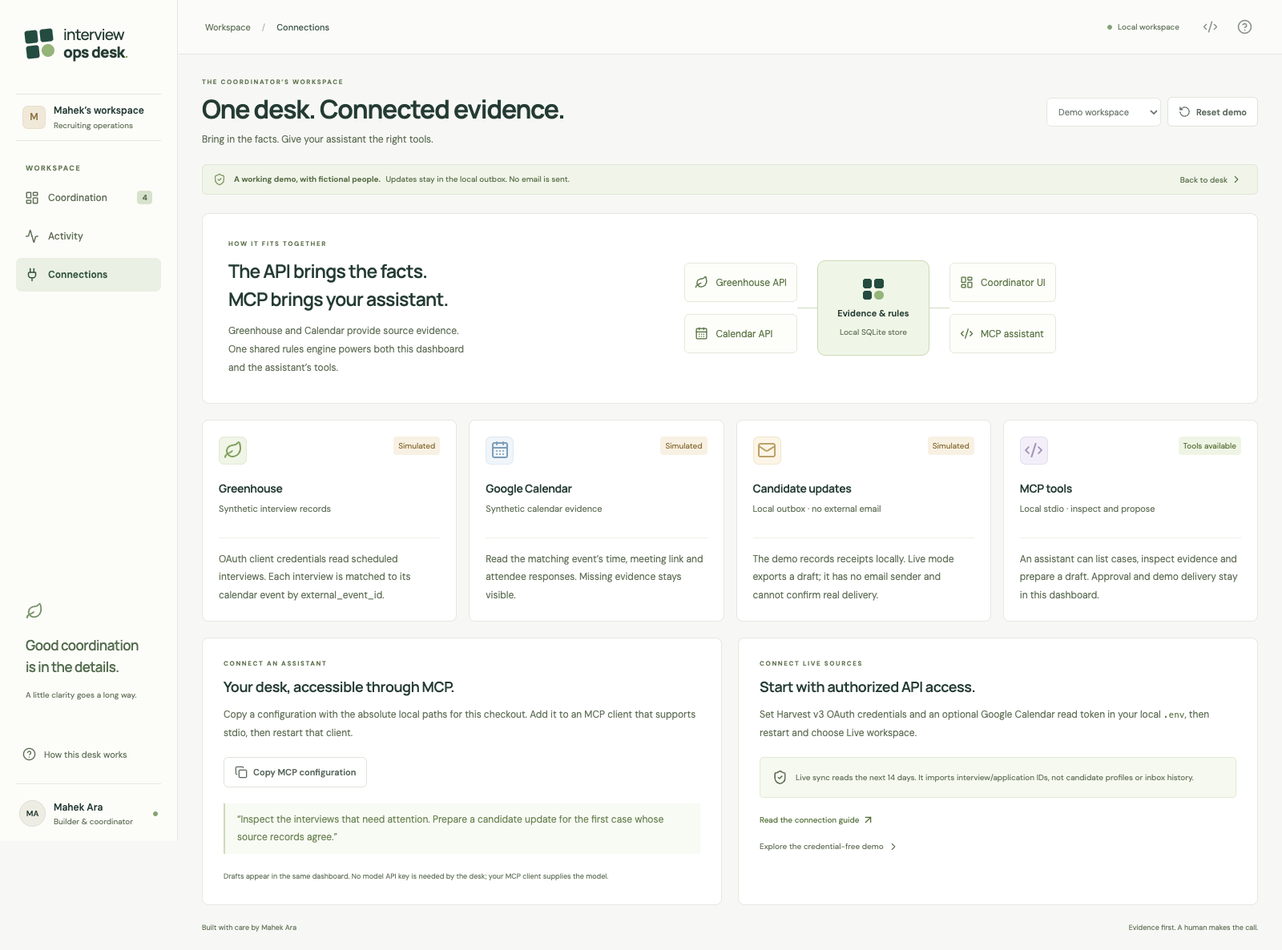
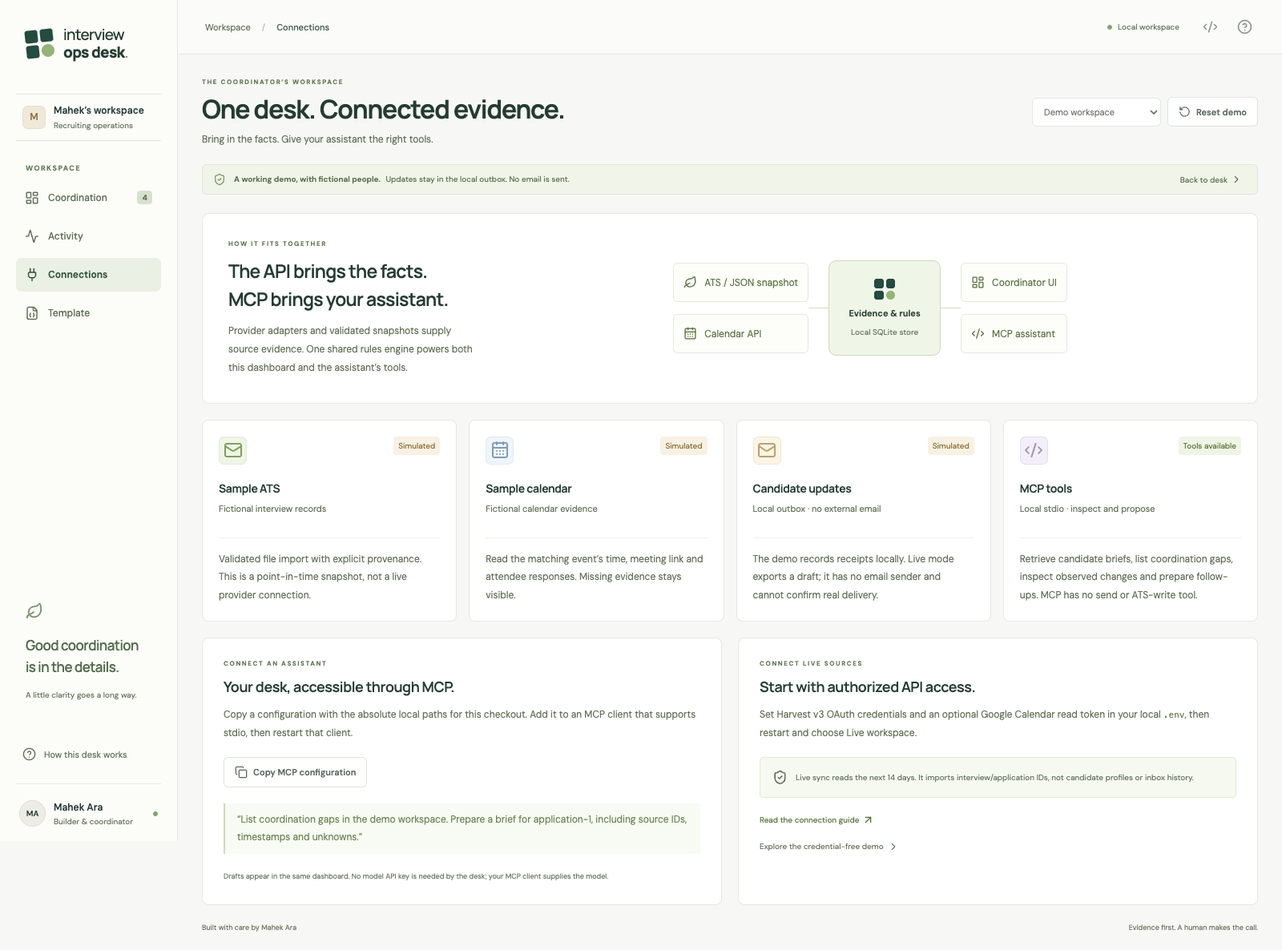
docs: add template setup and interview demonstration guide

diff --git a/scripts/render-walkthrough.py b/scripts/render-walkthrough.py
@@ -11,7 +11,7 @@ root = Path(__file__).resolve().parents[1]
 source = root / "test-results"
 output = root / "docs/images"
 output.mkdir(parents=True, exist_ok=True)
-names = ["desk-overview", "desk-draft", "desk-recovery", "desk-receipt", "desk-connections", "desk-mobile"]
+names = ["desk-overview", "desk-draft", "desk-recovery", "desk-receipt", "desk-connections", "desk-mobile", "template-preview", "template-brief", "template-mobile"]
 for name in names:
     copyfile(source / f"{name}.png", output / f"{name}.png")
 
@@ -36,4 +36,4 @@ for im, (_, caption, _) in zip(scaled, scenes):
     frame.paste(im, (0, 46))
     frames.append(frame.quantize(colors=128, method=Image.Quantize.MEDIANCUT))
 frames[0].save(output / "workflow.gif", save_all=True, append_images=frames[1:], duration=[scene[2] for scene in scenes], loop=0, optimize=True, disposal=2)
-print(f"Saved six UI captures and workflow.gif ({(output / 'workflow.gif').stat().st_size // 1024} KiB)")
+print(f"Saved nine UI captures and workflow.gif ({(output / 'workflow.gif').stat().st_size // 1024} KiB)")

diff --git a/docs/TEMPLATE.md b/docs/TEMPLATE.md
@@ -1,0 +1,143 @@
+# A recruiting workflow you can adapt
+
+Interview Ops Desk is a single-operator template for a coordinator briefing: collect the evidence for an application, identify scheduling or communication gaps, and prepare a follow-up for review. It includes a working MCP server, a dashboard, a versioned interchange contract and two API adapters. It does not claim access to every ATS or a connection to an employer's account.
+
+## Start from the template
+
+Choose **Use this template** on GitHub, create your own repository, then:
+
+```sh
+npm ci
+npm run build
+npm start
+```
+
+Use Node 24+. Open `http://127.0.0.1:4310/?view=template`. The default demo needs no accounts, credentials or model key. The package is private and has not been published to npm.
+
+In Template, choose **Preview sample snapshot → Import reviewed snapshot → Open imported workspace**. Open Maya's application brief. The provider, record ID, observed time and missing information are visible alongside the source comparison.
+
+![Actual template preview with fictional data](images/template-preview.png)
+
+## The reusable boundary
+
+```mermaid
+flowchart LR
+    JSON[Reviewed JSON snapshot] --> CONTRACT[Schema 1.0 + semantic validation]
+    HTTP[Custom provider API] --> CONTRACT
+    GH[Greenhouse + Calendar adapters] --> NORMAL[Provider-neutral Interview records]
+    CONTRACT --> NORMAL
+    NORMAL --> DB[(SQLite: revisions and evidence)]
+    DB --> RULES[Deterministic checks and briefs]
+    RULES <--> MCP[MCP stdio tools]
+    MCP <--> HOST[Assistant in an MCP client]
+    RULES <--> UI[Coordinator dashboard]
+    UI --> REVIEW[Reviewed draft export]
+```
+
+The JSON contract lives in `server/contracts.ts`; its generated JSON Schema is `examples/snapshot.schema.json`. `RecruitingProvider` describes an adapter's capabilities, connection labels and `sync()` result. API adapters return a complete bounded snapshot of normalized interviews, or fail without replacing the previous data. Provider connection labels never include credentials.
+
+The three workspaces are data partitions in a local single-user application, not tenant authorization boundaries. MCP can access the local records in each workspace. Do not use this template as a shared recruiting service without adding account authentication, per-user authorization and an appropriate retention policy.
+
+## What the contract contains
+
+| Field                          | Meaning                                                                                            |
+| ------------------------------ | -------------------------------------------------------------------------------------------------- |
+| `schemaVersion`                | Exactly `1.0`; unsupported shapes are rejected.                                                    |
+| `workspace`                    | Provider, stable workspace ID, readable label and `synthetic` or `export` data kind.               |
+| `capturedAt`                   | Explicit-offset timestamp for the snapshot.                                                        |
+| `interviews[].id`              | Stable provider interview ID. Internal IDs include provider and workspace scope.                   |
+| `applicationId`, `candidateId` | Exact source identity; unknown candidate ID is `null`. Names are never used to merge applications. |
+| `candidate`                    | Name, email (or empty when unknown) and supplied IANA time zone.                                   |
+| `role`, `stage`, `interviewer` | Source facts for the coordinator's brief.                                                          |
+| `ats`, `calendar`              | Schedule, meeting link, event ID and update timestamp. Calendar may be `null`.                     |
+| `confirmation`                 | Last recorded confirmation, or `null`. This cannot establish full communication history.           |
+| `recordUrl`                    | Optional HTTP(S) link back to a source record. Omit it when unavailable.                           |
+
+The file limit is 240 KB and 100 interviews; the HTTP adapter accepts up to 256 KB. Use an explicit team/job/time scope. The schema checks shape; runtime validation additionally checks valid time zones, unique interview IDs, positive durations, capture times and matching event IDs. Validation does not authenticate the truth of uploaded facts.
+
+An import replaces the imported workspace's current snapshot. Preview shows the replacement count. An empty complete snapshot deliberately clears that workspace. Invalid data, a stale preview or an older source record aborts the whole operation. An unchanged record keeps its revision and draft; material changes invalidate earlier proposals. Demo reset leaves imported and live records intact.
+
+CLI equivalents:
+
+```sh
+npm run template -- sample /tmp/recruiting-snapshot.json
+npm run template -- validate /tmp/recruiting-snapshot.json
+# This explicitly replaces the imported workspace:
+npm run template -- import /tmp/recruiting-snapshot.json
+```
+
+Generate the schema after changing the contract:
+
+```sh
+npm run template -- schema examples/snapshot.schema.json
+npm run format
+```
+
+## Connect a real HTTP endpoint, starting with the sample
+
+The sample is an actual local HTTP server serving fictional records. It freezes its snapshot at startup so repeatedly syncing does not fabricate changes.
+
+Terminal A:
+
+```sh
+npm run provider:demo
+```
+
+Terminal B (stop any existing desk process on port 4310 first):
+
+```sh
+OPS_PROVIDER=json-http \
+OPS_PROVIDER_URL=http://127.0.0.1:4312/snapshot \
+npm start
+```
+
+Choose **Live workspace → Sync sources**. These records arrived through an API but remain labeled synthetic. The demo provider does not impersonate a live ATS. Restart it to generate a fresh fictional scenario.
+
+To connect a team's system, replace the URL with an authorized endpoint returning the same contract. Set `OPS_PROVIDER_TOKEN` locally if it requires a bearer token. HTTPS is required except on loopback; redirects are refused. Tokens are never returned to the browser or stored in evidence. The adapter imposes a timeout and response-size limit.
+
+The team's endpoint must fetch every page in its intended scope, map source IDs and timestamps, and fail if it cannot assemble a complete snapshot. A partial response must not be represented as an empty or complete one. It must preserve missing evidence rather than invent candidate identity, communication history or calendar matches.
+
+For a direct TypeScript integration, implement `RecruitingProvider` and pass it to `createApp`. The dashboard and MCP workflows consume normalized records and need no provider-specific changes. `server/http-provider.ts` and `server/adapters.ts` are executable examples; the endpoint and credential selection are in `server/index.ts` and `server/config.ts`.
+
+## Connect an assistant
+
+In **Connections**, copy the generated MCP configuration into a client supporting stdio. This creates a configuration for the current checkout and the same SQLite directory as the dashboard. It does not install itself into a client. See [Connections](CONNECTIONS.md) for the command and environment details.
+
+| Tool                     | Contract                                                                                                             |
+| ------------------------ | -------------------------------------------------------------------------------------------------------------------- |
+| `list_coordination_gaps` | Workspace, optional explicit-offset start/end timestamps; end is exclusive.                                          |
+| `get_candidate_brief`    | Workspace and exact application ID; returns source-attributed evidence and unknowns.                                 |
+| `get_candidate_changes`  | Workspace, application ID and `since`; returns field changes observed locally, capped at 100 with a truncation flag. |
+| `prepare_follow_up`      | Interview ID, current revision and tone; creates a local proposal only.                                              |
+
+Existing `list_interview_cases`, `inspect_interview`, `prepare_candidate_update` and `get_coordination_activity` tools remain available for compatibility. `ops://schema/snapshot-v1` exposes the schema; the `interview-readiness` prompt guides the briefing. Imported and live drafts can be exported but cannot be delivered by this application.
+
+Try:
+
+> In the imported workspace, list coordination gaps. Get the brief for application-1. Separate confirmed facts, conflicts and unknowns, and include source IDs and timestamps. Prepare a follow-up only after showing me the evidence.
+
+An executable walkthrough uses a real MCP SDK client with a temporary database:
+
+```sh
+npm run demo:mcp
+```
+
+It imports fictional records, retrieves gaps and a brief, prepares a proposal, changes the role and verifies that a request using the old revision is rejected. It does not call an LLM, contact an employer or alter the running dashboard's data.
+
+## What is ready, and what a live pilot needs
+
+| Integration             | Implemented                                                        | Still needed for a live pilot                                                           |
+| ----------------------- | ------------------------------------------------------------------ | --------------------------------------------------------------------------------------- |
+| JSON import             | Validation, preview, atomic replacement, revisions and provenance  | An authorized export mapped to the contract.                                            |
+| Custom JSON HTTP API    | Real HTTP transport, token header, size/time limits, normalization | A team-owned endpoint that maps actual source systems.                                  |
+| Greenhouse Harvest v3   | OAuth, interview pagination, exact Calendar lookup, contract tests | Administrator-authorized access and validation against that account.                    |
+| Other ATS vendors       | Shared contract and adapter interface                              | A vendor adapter plus authorized access; no claim of existing Lever/Ashby integrations. |
+| Candidate communication | Recorded evidence, proposals and export                            | An approved message/inbox integration; no real sending or delivery verification today.  |
+
+The Greenhouse adapter does not retrieve resumes, scorecards or full candidate profiles. It uses UTC as a display default because candidate time zones are unavailable in that feed. Public job boards cannot supply private candidate or interview data. MCP provides the tool protocol and does not grant access to those records.
+
+## Explain it in an interview
+
+“I built a reusable MCP workflow for interview coordination. A provider supplies a small, versioned evidence contract. The same deterministic checks support the dashboard and assistant, and every proposal is tied to the current record revision. The demo uses fictional data; connecting an employer requires authorized access, a mapping of their records and validation against their workflow.”
+
+Show a brief with its source IDs, a missing confirmation, the MCP-created proposal and rejection of an outdated revision. Explain why an unknown confirmation does not prove that no email was sent. Those behaviors demonstrate operational judgment without claiming production adoption or measured time savings.

diff --git a/README.md b/README.md
@@ -1,14 +1,14 @@
 <p align="center"><img src="public/favicon.svg" width="52" alt="Interview Ops Desk logo" /></p>
 <h1 align="center">Interview Ops Desk</h1>
-<p align="center"><strong>Keep every interview on track.</strong><br/>Compare the evidence. Review the update. Follow through to a receipt.</p>
-<p align="center"><a href="#try-it-locally">Run the demo</a> · <a href="docs/CONNECTIONS.md">Connect Greenhouse & MCP</a> · <a href="docs/CASE-STUDY.md">Read the case study</a></p>
+<p align="center"><strong>Recruiting workflows, ready for MCP.</strong><br/>A reusable template for candidate briefs, coordination gaps and reviewed follow-ups.</p>
+<p align="center"><a href="https://github.com/mahekara28/interview-ops-desk/generate">Use this template</a> · <a href="#try-it-locally">Run the demo</a> · <a href="docs/CONNECTIONS.md">Connect Greenhouse & MCP</a> · <a href="docs/CASE-STUDY.md">Read the case study</a></p>
 <p align="center"><a href="https://github.com/mahekara28/interview-ops-desk/actions/workflows/ci.yml"><img src="https://github.com/mahekara28/interview-ops-desk/actions/workflows/ci.yml/badge.svg" alt="Prototype checks"/></a> <img src="https://img.shields.io/badge/Node.js-24-365747" alt="Node.js 24"/> <img src="https://img.shields.io/badge/MCP-inspect%20%26%20propose-677b55" alt="MCP inspection and proposals"/> <img src="https://img.shields.io/badge/status-working%20prototype-c79553" alt="Working prototype"/></p>
 
 ![The actual dashboard, showing a fictional candidate whose recorded confirmation contains the previous interview time.](docs/images/desk-overview.png)
 
 An interview moves by an hour. The calendar and ATS agree, but the last recorded candidate confirmation still contains the old time. Interview Ops Desk makes that mismatch visible, prepares a clear update and keeps the approval, failure and recovery in one place.
 
-This is a local working prototype by **Mahek Ara**. The default workspace uses six fictional interviews. Its outbox records simulated receipts; it sends no external email. The Greenhouse and Google Calendar adapters are implemented and contract-tested, but have not been validated against a live account.
+This is a local working template by **Mahek Ara**. It includes a provider-neutral snapshot contract, a reviewed import workbench, a working MCP server and a sample HTTP provider. The default workspace uses six fictional interviews. Its outbox records simulated receipts; it sends no external email. The Greenhouse and Google Calendar adapters are implemented and contract-tested, but have not been validated against a live account.
 
 ## Try it locally
 
@@ -24,9 +24,23 @@ npm start
 
 Open **http://127.0.0.1:4310**. The app listens on loopback only. `npm run dev` runs the development server at the same address. Local state persists in `.data/desk.sqlite`; Reset demo clears only the fictional workspace.
 
+### Adapt it to a recruiting team
+
+Open **Template** in the sidebar. Preview the fictional JSON snapshot, import it into its own workspace, and open a candidate's application brief. The same evidence is available through MCP; an assistant can prepare a follow-up that appears in the dashboard.
+
+![A candidate brief and MCP-created draft from an imported fictional snapshot.](docs/images/template-brief.png)
+
+```sh
+npm run demo:mcp                         # Complete protocol walkthrough, no accounts needed
+npm run template -- validate examples/recruiting-snapshot.json
+npm run provider:demo                    # Fictional HTTP provider on loopback port 4312
+```
+
+The [template guide](docs/TEMPLATE.md) explains the schema, provider contract, API wiring and a concise interview demonstration. A custom JSON endpoint can supply the same contract; the existing Greenhouse adapter remains available when authorized credentials are provided. No integration with other ATS vendors is claimed.
+
 ### The 90-second walkthrough
 
-1. Open **Maya Chen**. Compare Greenhouse, Calendar and the last candidate confirmation.
+1. Open **Maya Chen**. Compare the sample ATS, Calendar and last candidate confirmation.
 2. Select **Prepare candidate update**. Review the template and its named time zone.
 3. Enable **Simulate a delivery timeout**, then approve the demo delivery.
 4. Retry the approved message. Inspect the local receipt and the now-consistent evidence.
@@ -42,7 +56,8 @@ The walkthrough uses captured UI states from the browser tests. It is a demonstr
 flowchart LR
     GH[Greenhouse Harvest v3\nOAuth · read-only interviews] --> A[Source adapters]
     GC[Google Calendar\nOAuth token · read-only events] --> A
-    F[Fictional demo fixtures] --> E
+    F[Fictional fixtures / reviewed JSON] --> E
+    CUSTOM[Custom snapshot API] --> A
     A --> E[Evidence and deterministic checks]
     E <--> DB[(Local SQLite\nrevisions · proposals · history)]
     DB <--> UI[Coordinator dashboard]
@@ -53,7 +68,7 @@ flowchart LR
     OUT --> DB
 ```
 
-**The API connects the source systems.** Harvest v3 supplies scheduled interview records; the adapter matches `external_event_id` to a Google Calendar event. Authorized OAuth credentials are required. Greenhouse is never accessed through browser scraping or through a job-seeker login.
+**The API connects the source systems.** A custom JSON endpoint can return the versioned snapshot contract. Alternatively, Harvest v3 supplies scheduled interview records; the adapter matches `external_event_id` to a Google Calendar event. Authorized OAuth credentials are required. Greenhouse is never accessed through browser scraping or through a job-seeker login.
 
 **MCP exposes this desk to an assistant.** The assistant can inspect the evidence and prepare a proposal in the same database the UI reads. It cannot approve a delivery, send an email or edit Greenhouse. MCP itself is neither an LLM nor a replacement for API credentials. The host application supplies its model; this prototype uses deterministic checks and template drafts without calling a model API.
 
@@ -61,6 +76,10 @@ In **Connections**, use **Copy MCP configuration** for the exact local paths. Se
 
 | MCP tool                    | What it does                                             |
 | --------------------------- | -------------------------------------------------------- |
+| `get_candidate_brief`       | Reads one application’s evidence, gaps and unknowns      |
+| `list_coordination_gaps`    | Checks interviews within an explicit time window         |
+| `get_candidate_changes`     | Reads field changes observed by this desk                |
+| `prepare_follow_up`         | Prepares a revision-bound local proposal                 |
 | `list_interview_cases`      | Lists coordination issues in one workspace               |
 | `inspect_interview`         | Returns source evidence, revision, proposal and activity |
 | `prepare_candidate_update`  | Creates a local template draft for dashboard review      |
@@ -75,17 +94,19 @@ Example assistant request: “Inspect the cases that need attention. Prepare an 
 - Editable drafts with required evidence fields; approval tied to an interview revision.
 - Persistent demo delivery failure and recovery. Repeated delivery requests return the original receipt.
 - Real MCP stdio tools sharing the same SQLite store with the dashboard.
+- Schema-validated JSON previews, atomic imports and a read-only custom HTTP provider.
+- Candidate briefs with source identifiers and timestamps, plus field-level change history.
 - Optional read-only Harvest v3 OAuth and Calendar adapters, with pagination, one token refresh, timeouts and source schema validation.
-- Separate demo/live workspaces. A failed or stale live sync preserves the previous snapshot.
+- Separate demo, imported and live workspaces. A failed or stale live sync preserves the previous snapshot.
 - Keyboard controls, reduced motion, responsive layouts and local fonts.
 
 ## What the prototype does not establish
 
 - No live Greenhouse or Calendar account has been used to validate these adapters. Automated tests use documented payloads and mocked transport responses.
-- Live mode imports interview and application IDs, not candidate names, email addresses or inbox history. It cannot infer whether a candidate was contacted elsewhere.
+- The Greenhouse adapter imports interview and application IDs, not candidate names, email addresses or inbox history. It cannot infer whether a candidate was contacted elsewhere.
 - Live mode offers draft export only. Candidate communication, rescheduling, interviewer replacement and real delivery verification remain in the team’s approved tools.
 - The timeout scenario fails before a local receipt. It does not solve ambiguous third-party email outcomes or promise exactly-once external delivery.
-- Live sync is manual and scoped to the next 14 days of timed, scheduled interviews. There is no live webhook receiver, background worker, cloud account system or shared-team deployment.
+- API sync is manual. The Greenhouse adapter covers the next 14 days of timed, scheduled interviews; a custom endpoint defines its own complete, bounded scope. There is no live webhook receiver, background worker, cloud account system or shared-team deployment.
 - No measured hiring outcomes, customer adoption or operational time savings are claimed.
 
 ## Verification

diff --git a/docs/CONNECTIONS.md b/docs/CONNECTIONS.md
@@ -2,9 +2,11 @@
 
 ## Default demo
 
-`npm ci && npm run build && npm start` creates a local SQLite database and seeds six fictional interviews. The app is available at `http://127.0.0.1:4310`. Nothing is sent to Greenhouse, Calendar, Slack, an email service or an LLM in demo mode. UI requests and MCP tools use the same application rules and data.
+`npm ci && npm run build && npm start` creates a local SQLite database and seeds six fictional interviews. The app is available at `http://127.0.0.1:4310`. Nothing is sent to Greenhouse, Calendar, Slack, an email service or an LLM in demo mode. UI requests and MCP tools use the same application rules and data. Demo, imported and live workspaces are kept separate.
 
 All credentials belong in environment variables or an ignored `.env` file. Use `.env.example` as a starting point. The dashboard displays connection state but never receives the credentials.
+
+For validated file imports, the sample HTTP provider and the adapter contract, see [Template](TEMPLATE.md). Set `OPS_PROVIDER=greenhouse` (the default) for the following adapter, or `OPS_PROVIDER=json-http` for a custom snapshot endpoint.
 
 ## Greenhouse Harvest v3
 
@@ -20,7 +22,7 @@ The adapter posts a form to `https://auth.greenhouse.io/token`, using HTTP Basic
 
 Requests cover scheduled interviews starting between now and 14 days from now. Pagination follows same-origin `/v3/interviews` links, with a 20-page safety limit. Authentication is renewed once after a 401. Rate limits, timeouts and schema errors fail the sync without replacing the last complete snapshot. Narrow the job scope for larger accounts.
 
-Only timed, scheduled interviews are imported. All-day events, take-home assignments and other statuses are outside this prototype. The API feed contains application/job IDs; candidate identity enrichment is not implemented. No candidate email is guessed from a name or application ID.
+Only timed, scheduled interviews are imported. All-day events, take-home assignments and other statuses are outside this prototype. The API feed contains application/job IDs; candidate identity enrichment is not implemented. The display time zone defaults to UTC because this feed does not establish a candidate time zone. No candidate email is guessed from a name or application ID.
 
 The adapter has contract tests against the [documented v3 response](https://harvestdocs.greenhouse.io/reference/get_v3-interviews), but has not been exercised against a live Greenhouse account.
 

diff --git a/docs/CASE-STUDY.md b/docs/CASE-STUDY.md
@@ -4,6 +4,8 @@ Interview coordination is a consistency problem with a human consequence. The AT
 
 Greenhouse's [rescheduling guide](https://support.greenhouse.io/hc/en-us/articles/200241969-Reschedule-or-cancel-an-interview) describes one concrete case: changes through an external calendar require a separately updated candidate confirmation. Interview Ops Desk explores that handoff with a small working prototype.
 
+The project is also a reusable template: [the adapter guide](TEMPLATE.md) shows how JSON imports, a custom HTTP endpoint and the existing Harvest adapter supply the same workflows. The template includes an executable MCP walkthrough and a separate imported workspace.
+
 ## A deliberate scope
 
 One screen holds a queue, the source comparison and a proposed candidate update. The default case is fictional: Maya's interview moved by an hour, the ATS and calendar agree, and the last recorded confirmation still has the old time. The rules detect the mismatch. A template composes the confirmed facts in the candidate's named time zone. A coordinator reviews the wording before approving a simulated delivery.
@@ -40,6 +42,6 @@ These tests establish behavior on the tested fixtures. They do not establish emp
 
 ## Resume wording after reviewing the code and demo
 
-“Built a recruiting operations prototype that compares interview evidence, prepares reviewed candidate updates and records simulated delivery recovery. Exposed inspection and proposal tools through MCP, with revision checks and local receipt idempotency.”
+“Built a recruiting MCP template with candidate briefs, source-attributed coordination checks and reviewed follow-ups. Added validated JSON imports, a custom HTTP provider contract and revision checks that reject outdated proposals.”
 
 Keep professional Greenhouse scheduling experience in the employment section. This prototype is separate evidence of technical and operational judgment.

diff --git a/docs/MEDIA.md b/docs/MEDIA.md
@@ -13,4 +13,6 @@ python3 scripts/render-walkthrough.py
 
 `docs/images/workflow.gif` combines four actual UI states: the evidence mismatch, the draft, the simulated failure and the local receipt. The caption bar is added by the media script. The frames are resized and padded consistently; application content is not redrawn. It is a looping walkthrough, not a video of a live Greenhouse account.
 
+The template preview, application brief and mobile captures also come from the browser tests. An actual MCP client creates the proposal shown in `template-brief.png`. The synthetic source labels remain visible.
+
 The README provides a still-image alternative for readers requesting reduced motion. Fonts are self-hosted Manrope and DM Sans (SIL Open Font License); icons come from Lucide (ISC). The logo is an original SVG in `public/favicon.svg`.
